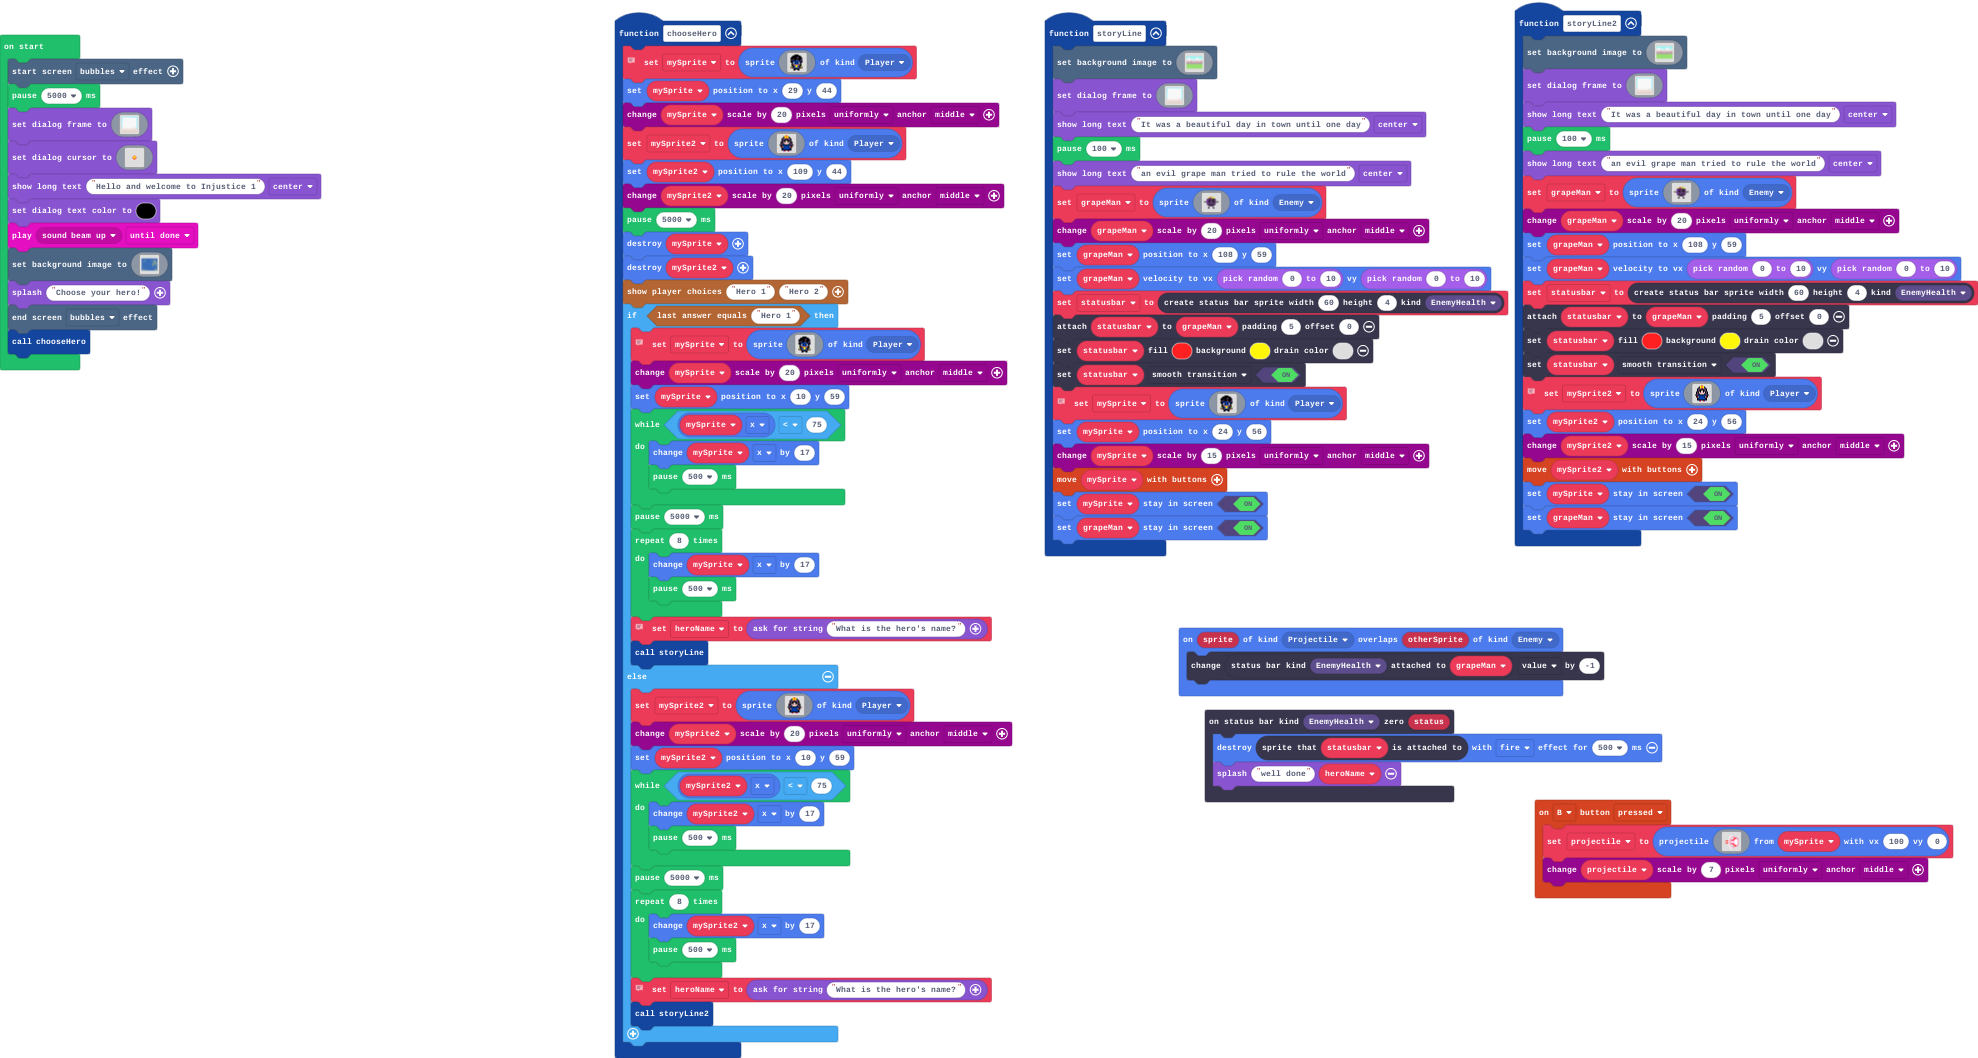
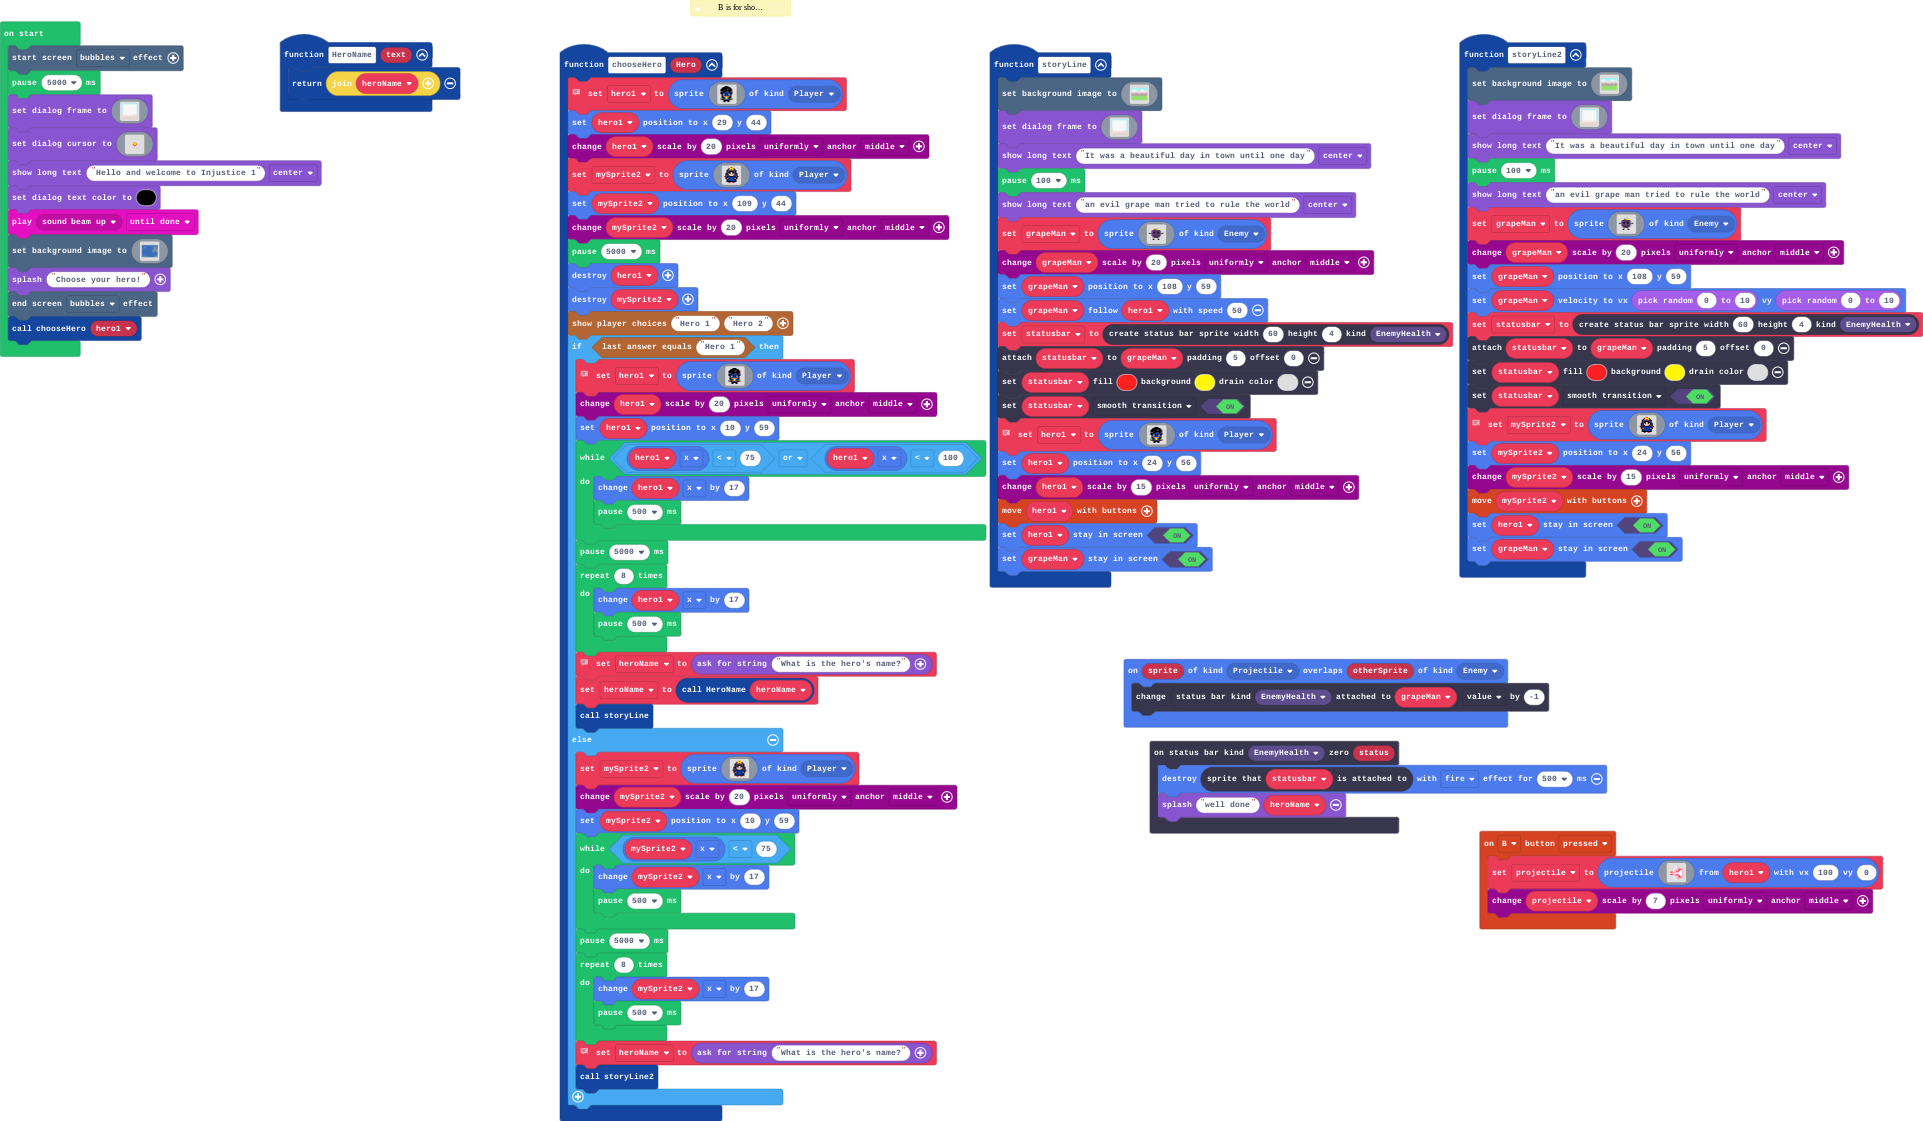
Update main.blocks, main.ts

diff --git a/main.ts b/main.ts
@@ -19,12 +19,15 @@ controller.B.onEvent(ControllerButtonEvent.Pressed, function () {
         . . . . . . 1 3 . 3 3 . . . . . 
         . . . . . . . 1 1 3 . . . . . . 
         . . . . . . . . . . . . . . . . 
-        `, mySprite, 100, 0)
+        `, hero1, 100, 0)
     scaling.scaleByPixels(projectile, 7, ScaleDirection.Uniformly, ScaleAnchor.Middle)
 })
-function chooseHero () {
+/**
+ * B is for shooting
+ */
+function chooseHero (Hero: Sprite) {
     // change sprite later to agree with Daisy 
-    mySprite = sprites.create(img`
+    hero1 = sprites.create(img`
         . . . . f f f f . . . . . 
         . . f f f f f f f f . . . 
         . f f f f f f c f f f . . 
@@ -42,8 +45,8 @@ function chooseHero () {
         . . . f f f f f f . . . . 
         . . . f f . . f f . . . . 
         `, SpriteKind.Player)
-    mySprite.setPosition(29, 44)
-    scaling.scaleByPixels(mySprite, 20, ScaleDirection.Uniformly, ScaleAnchor.Middle)
+    hero1.setPosition(29, 44)
+    scaling.scaleByPixels(hero1, 20, ScaleDirection.Uniformly, ScaleAnchor.Middle)
     mySprite2 = sprites.create(img`
         . . . . . . 5 2 2 5 . . . . . . 
         . . . . . f 5 5 5 5 f . . . . . 
@@ -65,12 +68,12 @@ function chooseHero () {
     mySprite2.setPosition(109, 44)
     scaling.scaleByPixels(mySprite2, 20, ScaleDirection.Uniformly, ScaleAnchor.Middle)
     pause(5000)
-    mySprite.destroy()
+    hero1.destroy()
     mySprite2.destroy()
     story.showPlayerChoices("Hero 1", "Hero 2")
     if (story.checkLastAnswer("Hero 1")) {
         // change sprite later to agree with Daisy 
-        mySprite = sprites.create(img`
+        hero1 = sprites.create(img`
             . . . . f f f f . . . . . 
             . . f f f f f f f f . . . 
             . f f f f f f c f f f . . 
@@ -88,19 +91,20 @@ function chooseHero () {
             . . . f f f f f f . . . . 
             . . . f f . . f f . . . . 
             `, SpriteKind.Player)
-        scaling.scaleByPixels(mySprite, 20, ScaleDirection.Uniformly, ScaleAnchor.Middle)
-        mySprite.setPosition(10, 59)
-        while (mySprite.x < 75) {
-            mySprite.x += 17
+        scaling.scaleByPixels(hero1, 20, ScaleDirection.Uniformly, ScaleAnchor.Middle)
+        hero1.setPosition(10, 59)
+        while (hero1.x < 75 || hero1.x < 100) {
+            hero1.x += 17
             pause(500)
         }
         pause(5000)
         for (let index = 0; index < 8; index++) {
-            mySprite.x += 17
+            hero1.x += 17
             pause(500)
         }
         // asks for hero name
         heroName = game.askForString("What is the hero's name?")
+        heroName = HeroName(heroName)
         storyLine()
     } else {
         mySprite2 = sprites.create(img`
@@ -353,13 +357,13 @@ function storyLine () {
         `, SpriteKind.Enemy)
     scaling.scaleByPixels(grapeMan, 20, ScaleDirection.Uniformly, ScaleAnchor.Middle)
     grapeMan.setPosition(108, 59)
-    grapeMan.setVelocity(randint(0, 10), randint(0, 10))
+    grapeMan.follow(hero1, 50)
     statusbar = statusbars.create(60, 4, StatusBarKind.EnemyHealth)
     statusbar.attachToSprite(grapeMan, 5, 0)
     statusbar.setColor(2, 5, 0)
     statusbar.setStatusBarFlag(StatusBarFlag.SmoothTransition, true)
     // change sprite later to agree with Daisy 
-    mySprite = sprites.create(img`
+    hero1 = sprites.create(img`
         . . . . f f f f . . . . . 
         . . f f f f f f f f . . . 
         . f f f f f f c f f f . . 
@@ -377,10 +381,10 @@ function storyLine () {
         . . . f f f f f f . . . . 
         . . . f f . . f f . . . . 
         `, SpriteKind.Player)
-    mySprite.setPosition(24, 56)
-    scaling.scaleByPixels(mySprite, 15, ScaleDirection.Uniformly, ScaleAnchor.Middle)
-    controller.moveSprite(mySprite)
-    mySprite.setStayInScreen(true)
+    hero1.setPosition(24, 56)
+    scaling.scaleByPixels(hero1, 15, ScaleDirection.Uniformly, ScaleAnchor.Middle)
+    controller.moveSprite(hero1)
+    hero1.setStayInScreen(true)
     grapeMan.setStayInScreen(true)
 }
 function storyLine2 () {
@@ -622,8 +626,11 @@ function storyLine2 () {
     mySprite2.setPosition(24, 56)
     scaling.scaleByPixels(mySprite2, 15, ScaleDirection.Uniformly, ScaleAnchor.Middle)
     controller.moveSprite(mySprite2)
-    mySprite.setStayInScreen(true)
+    hero1.setStayInScreen(true)
     grapeMan.setStayInScreen(true)
+}
+function HeroName (text: string) {
+    return "" + heroName
 }
 sprites.onOverlap(SpriteKind.Projectile, SpriteKind.Enemy, function (sprite, otherSprite) {
     statusbars.getStatusBarAttachedTo(StatusBarKind.EnemyHealth, grapeMan).value += -1
@@ -632,8 +639,8 @@ let grapeMan: Sprite = null
 let statusbar: StatusBarSprite = null
 let heroName = ""
 let mySprite2: Sprite = null
-let mySprite: Sprite = null
 let projectile: Sprite = null
+let hero1: Sprite = null
 effects.bubbles.startScreenEffect()
 pause(5000)
 game.setDialogFrame(img`
@@ -831,4 +838,4 @@ scene.setBackgroundImage(img`
     `)
 game.splash("Choose your hero!")
 effects.bubbles.endScreenEffect()
-chooseHero()
+chooseHero(hero1)
